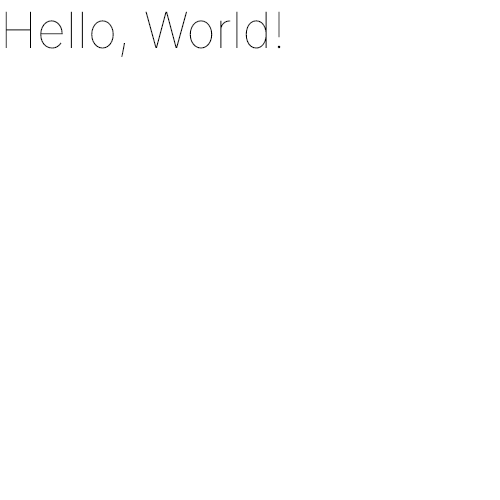
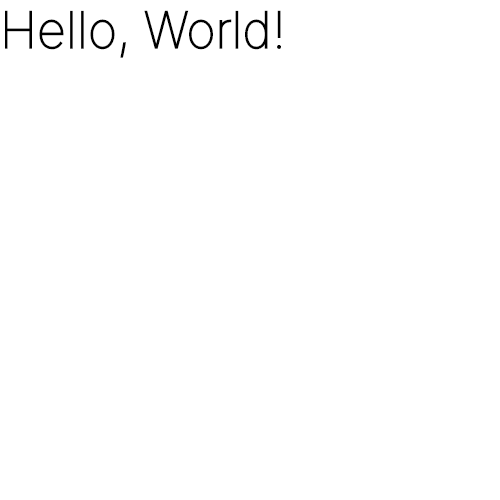
weight

diff --git a/src/main.rs b/src/main.rs
@@ -50,7 +50,7 @@ fn main() {
     let paragraph_style = ParagraphStyle::default();
     let mut paragraph_builder = ParagraphBuilder::new(&paragraph_style, font_collection);
     let mut text_style = TextStyle::new();
-    let font_style = FontStyle::new(Weight::NORMAL, Width::EXTRA_CONDENSED, Slant::Upright);
+    let font_style = FontStyle::new(Weight::EXTRA_BOLD, Width::NORMAL, Slant::Upright);
     text_style.set_font_style(font_style);
     text_style.set_color(Color::BLACK);
     text_style.set_font_size(50.);
